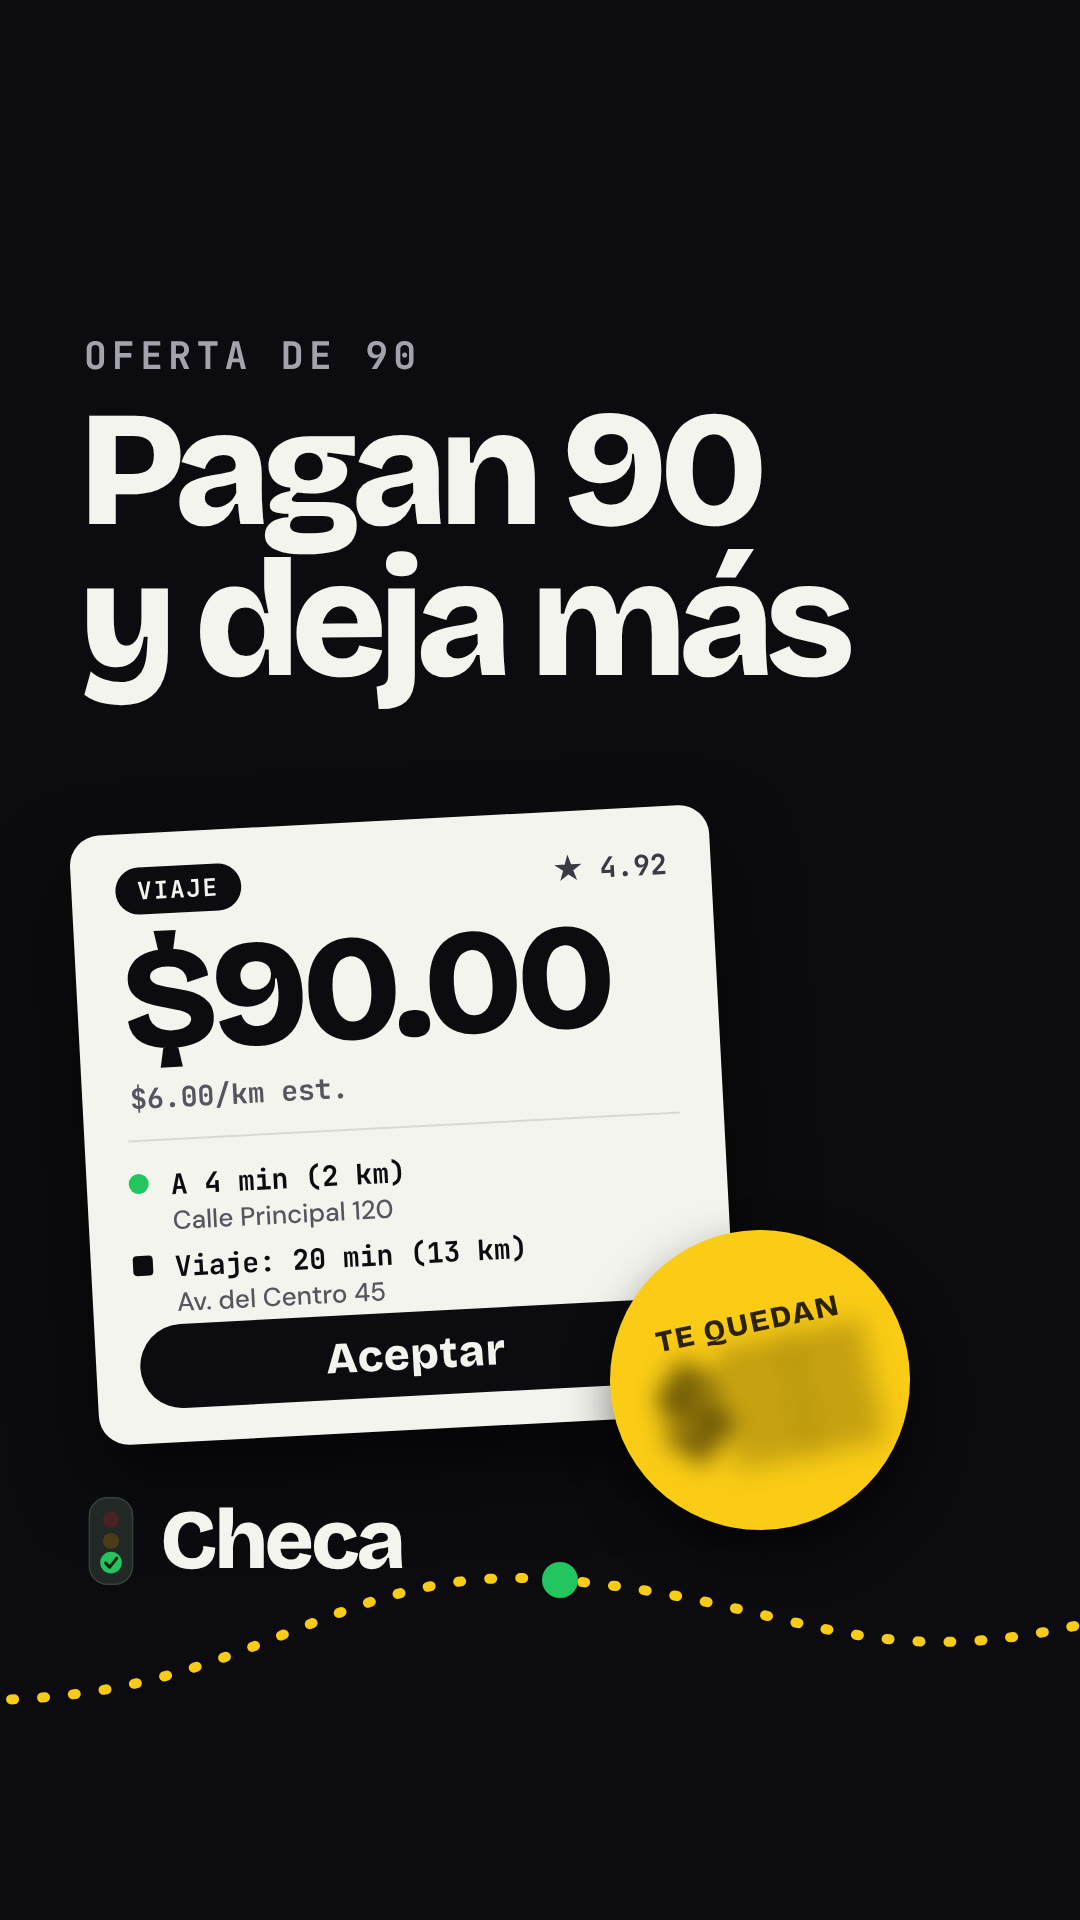
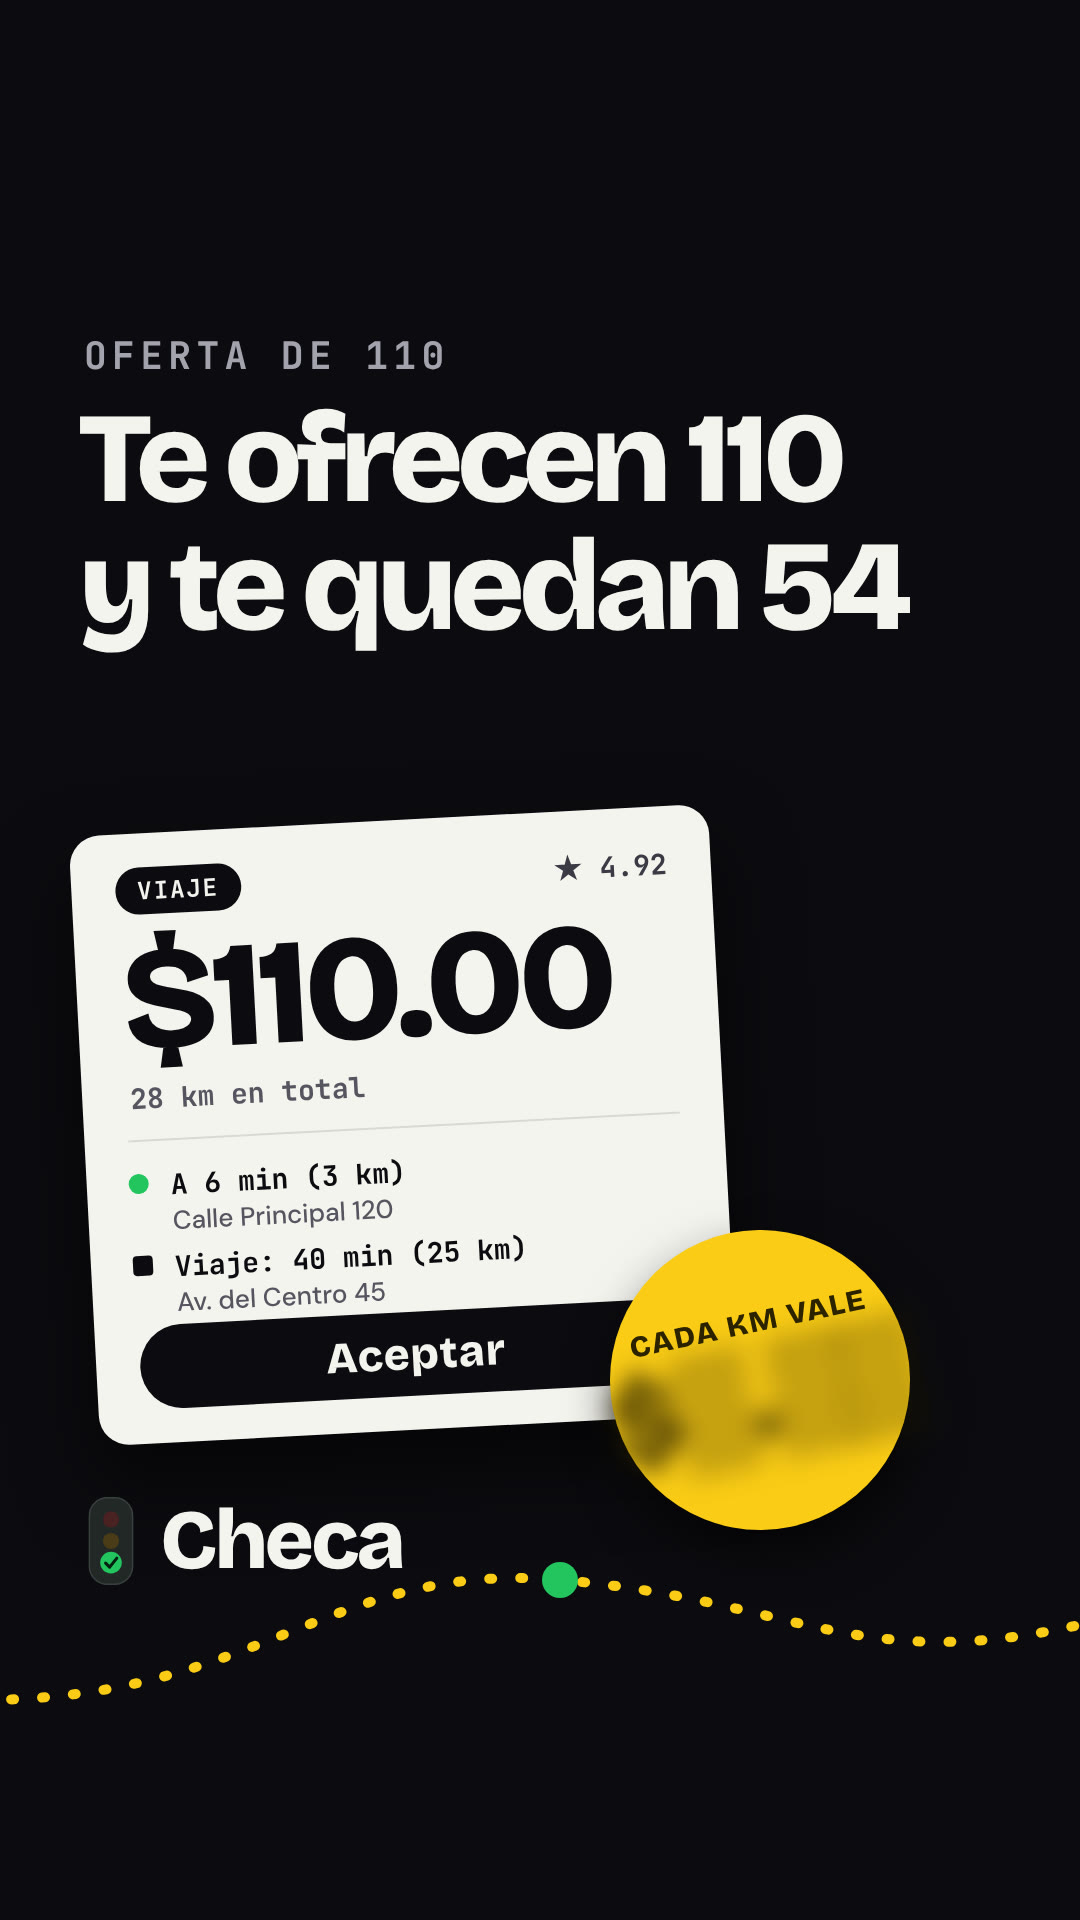
PERSONAL 22 v2: portada nueva «Te ofrecen 110 y te quedan 54» (por aprobar)
Claude-Session: https://claude.ai/code/session_01P2CDbbgfTRy2ZW3tw7k12i

diff --git a/video/hyperframes/cuanto-vale-km-22-v2/portada/portada.html b/video/hyperframes/cuanto-vale-km-22-v2/portada/portada.html
@@ -11,7 +11,7 @@
 html,body{margin:0;width:1080px;height:1920px;overflow:hidden;background:#0C0C10;font-family:DM;color:#F4F4EF}
 .road{position:absolute;left:0;top:0}
 .k{position:absolute;left:84px;top:330px;font-family:JB;font-weight:700;font-size:38px;letter-spacing:.14em;color:#A3A3AD}
-.t{position:absolute;left:78px;top:395px;font-family:BG;font-weight:800;font-size:164px;line-height:.92;letter-spacing:-.06em}
+.t{position:absolute;left:78px;top:395px;font-family:BG;font-weight:800;font-size:128px;line-height:1.0;letter-spacing:-.06em}
 .sello{position:absolute;left:610px;top:1230px;width:300px;height:300px;border-radius:50%;background:#FACC15;color:#2B2200;display:flex;flex-direction:column;align-items:center;justify-content:center;transform:rotate(-12deg);font-family:BG;font-weight:800;line-height:1;box-shadow:0 24px 50px rgba(0,0,0,.6)}
 .sello .a{font-size:30px;letter-spacing:.06em}
 .sello .n{font-size:110px;letter-spacing:-.04em;filter:blur(13px);margin-top:6px}
@@ -32,13 +32,13 @@ html,body{margin:0;width:1080px;height:1920px;overflow:hidden;background:#0C0C10
 .card .btn{position:absolute;left:44px;right:44px;top:492px;height:84px;border-radius:999px;background:#0C0C10;color:#F4F4EF;display:flex;align-items:center;justify-content:center;font-family:BG;font-weight:800;font-size:44px;letter-spacing:.02em}
 </style></head><body>
 <svg class="road" width="1080" height="1920" viewBox="0 0 1080 1920" aria-hidden="true"><path d="M-20 1700C260 1700 330 1560 560 1580C800 1600 860 1680 1100 1620" fill="none" stroke="#FACC15" stroke-width="10" stroke-dasharray="3 28" stroke-linecap="round"/><circle cx="560" cy="1580" r="18" fill="#22C55E"/></svg>
-<div class="k">OFERTA DE 90</div>
-<div class="t">Pagan 90<br>y deja más</div>
+<div class="k">OFERTA DE 110</div>
+<div class="t">Te ofrecen 110<br>y te quedan 54</div>
 <div class="card"><div class="top"><div class="pill">VIAJE</div><div class="rate">★ 4.92</div></div>
-<div class="p">$90.00</div><div class="km">$6.00/km est.</div><div class="hr"></div>
-<div class="r" style="top:334px"><i></i><span>A 4 min (2 km)<small>Calle Principal 120</small></span></div>
-<div class="r" style="top:416px"><i class="q"></i><span>Viaje: 20 min (13 km)<small>Av. del Centro 45</small></span></div>
+<div class="p">$110.00</div><div class="km">28 km en total</div><div class="hr"></div>
+<div class="r" style="top:334px"><i></i><span>A 6 min (3 km)<small>Calle Principal 120</small></span></div>
+<div class="r" style="top:416px"><i class="q"></i><span>Viaje: 40 min (25 km)<small>Av. del Centro 45</small></span></div>
 <div class="btn">Aceptar</div></div>
-<div class="sello"><div class="a">TE QUEDAN</div><div class="n">$▒▒</div></div>
+<div class="sello"><div class="a">CADA KM VALE</div><div class="n">$▒.▒▒</div></div>
 <div class="logo"><svg width="54" height="90" viewBox="0 0 60 100" aria-hidden="true"><rect x="6" y="2" width="48" height="96" rx="20" fill="#222826" stroke="#3A423F" stroke-width="1.6"/><circle cx="30" cy="26" r="9" fill="#4A2222"/><circle cx="30" cy="50" r="9" fill="#4A3C16"/><circle cx="30" cy="74" r="12" fill="#22C55E"/><path d="M24 74.5l4.5 4.5L36.5 69" fill="none" stroke="#04210F" stroke-width="3.4" stroke-linecap="round" stroke-linejoin="round"/></svg><span>Checa</span></div>
 </body></html>
